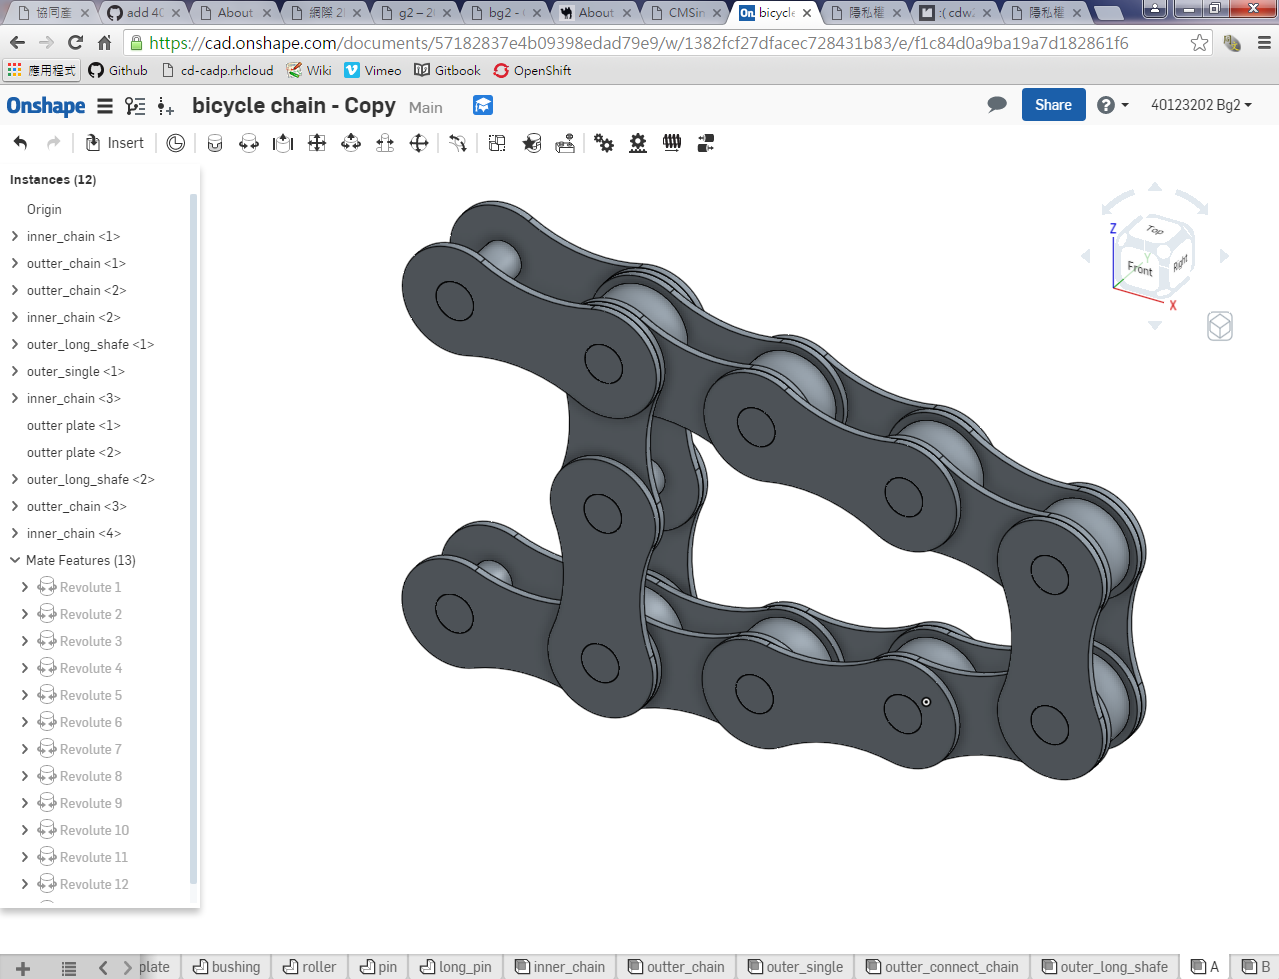
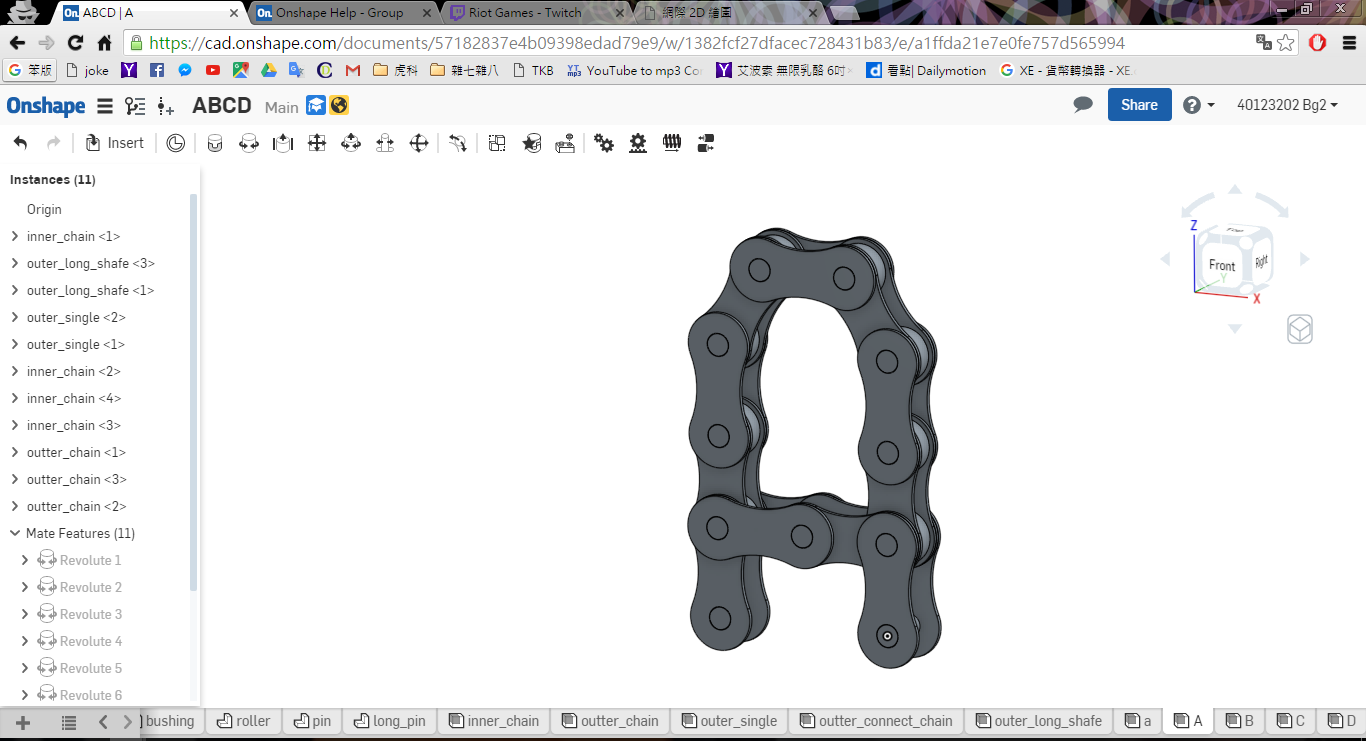
ADD 40123202 MD

diff --git a/content/bg2/40123202_2.md b/content/bg2/40123202_2.md
@@ -10,7 +10,7 @@ Author: 40123202
 
 <h2>自評分數:85
 
-<h2>md檔:從2015fallhwfork cdw2並且git clone下來切換分支到 gh-pages,在content目錄下新增組別資料夾
+md檔:從2015fallhwfork cdw2並且git clone下來切換分支到 gh-pages,在content目錄下新增組別資料夾
 
 <img src="./../files/bg2/1.png">
 
@@ -18,7 +18,8 @@ Author: 40123202
 
 <img src="./../files/bg2/2.png">
 
-<h2>繪ABCD:繪製自己負責的部分，需在master分支下執行,需先在myflaskapp.py註冊各組組員的檔案如圖所示
+<h2>繪製2D-ABCD
+繪製自己負責的部分，需在master分支下執行,需先在myflaskapp.py註冊各組組員的檔案如圖所示
 
 <img src="./../files/bg2/3.png">
 
@@ -42,16 +43,15 @@ scum2的內容所用
 
 <img src="./../files/bg2/8.png">
 
-近端測試完後即可推上openshift的遠端網頁。
+近端測試完後即可推上openshift的遠端網頁:<a href="http://cdw2-cadp13ag35.rhcloud.com/g2/scrum1_task40123235">bg2-openshift</a> 
 
-<a href="http://cdw2-cadp13ag35.rhcloud.com/g2/scrum1_task40123235">bg2-openshift</a> 
+<h2>個人ABCD畫布
 
-<h2>3D
+<img src="./../files/bg2/ABCD.png">
 
+<h2>Onshape繪製3D鍊條組立ABCD
+Onshape:<a href="https://cad.onshape.com/documents/57182837e4b09398edad79e9">3D鏈條組立</a> 
 <img src="./../files/bg2/3D-A.png">
-
 <img src="./../files/bg2/3D-B.png">
-
 <img src="./../files/bg2/3D-C.png">
-
 <img src="./../files/bg2/3D-D.png">
